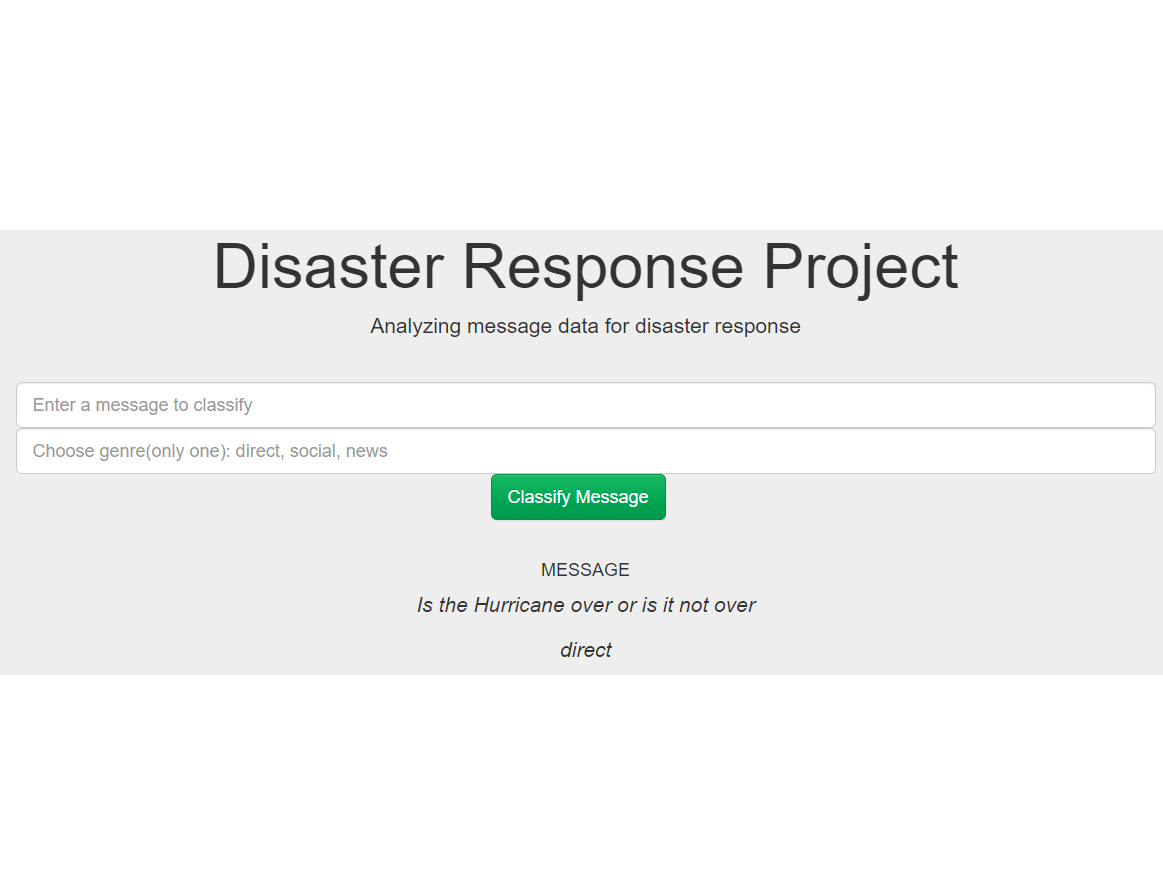
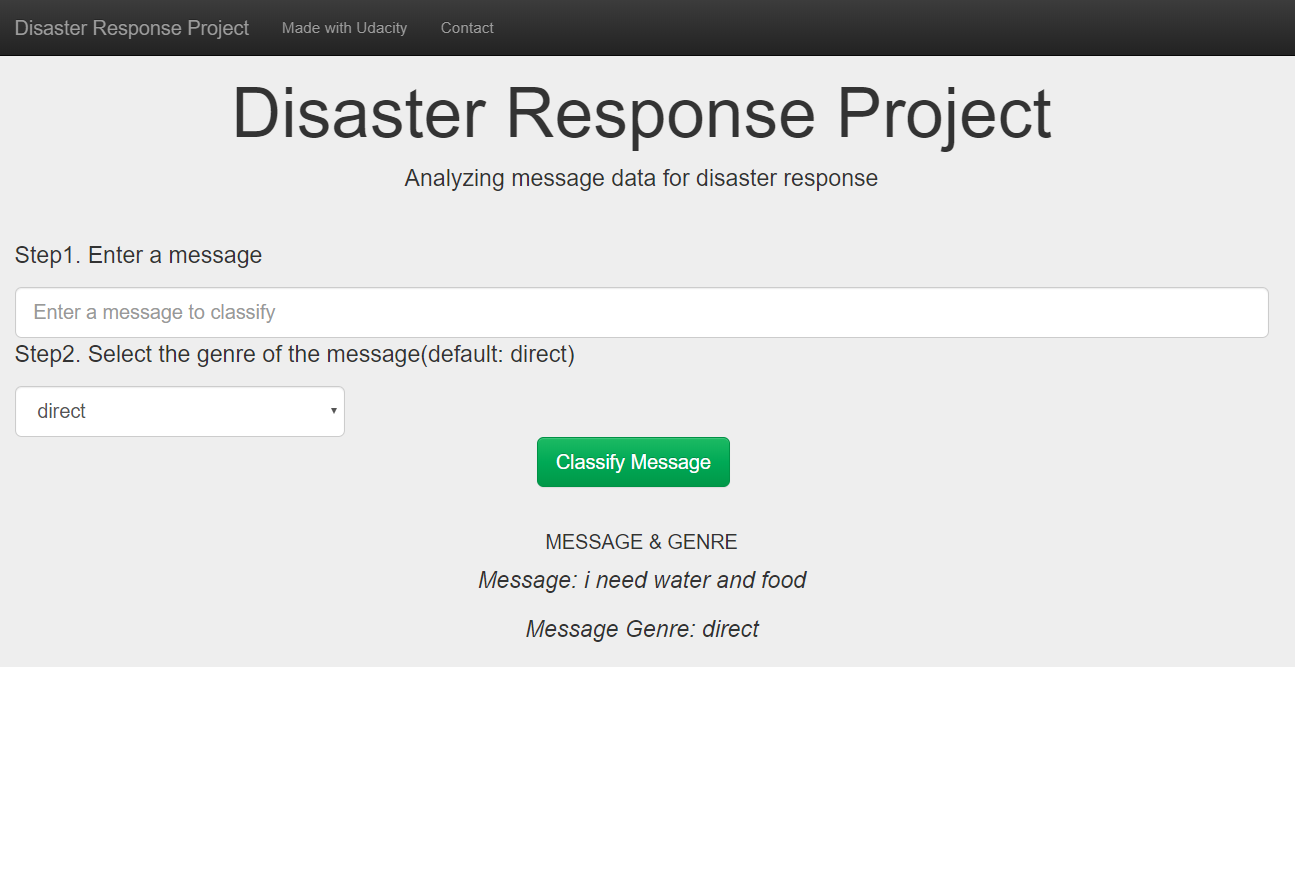
update the README.md and related files

diff --git a/app/templates/master.html b/app/templates/master.html
@@ -39,9 +39,17 @@
         <div class="row">
             <div class="col-lg-12 form-group-lg">
                 <form action="/go" method="get">
+                    <p>Step1. Enter a message</p>
                     <input type="text" class="form-control form-control-lg" name="query_message" placeholder="Enter a message to classify">
-                    <!--add the text field to input the 'genre'-->
-                    <input type="text" class="form-control form-control-lg" name="query_genre" placeholder="Choose genre(only one): direct, social, news">
+
+                    <!-- Input the information of 'genre' -->
+                    <p>Step2. Select the genre of the message(default: direct)</p>
+                    <select name="select_genre" style="width:300px;" class="form-control form-control-lg">
+                      <option value="direct" selected>direct</option>
+                      <option value="news">news</option>
+                      <option value="social">social</option>
+                    </select>
+
                     <div class="col-lg-offset-5">
                         <button type="submit" class="btn btn-lg btn-success">Classify Message</button>
                     </div>

diff --git a/app/templates/go.html b/app/templates/go.html
@@ -3,10 +3,10 @@
 
 {% block message %}
     <hr />
-    <h4 class="text-center">MESSAGE</h4>
-    <p class="text-center"><i>{{query_message}}</i></p>
-    <!--add the block for query of 'genre' -->
-    <p class="text-center"><i>{{query_genre}}</i></p>
+    <h4 class="text-center">MESSAGE & GENRE</h4>
+    <p class="text-center"><i>Message: {{query_message}}</i></p>
+    <!--Show the information of 'genre' -->
+    <p class="text-center"><i>Message Genre: {{query_genre}}</i></p>
 {% endblock %}
 
 {% block content %}

diff --git a/app/run.py b/app/run.py
@@ -121,7 +121,7 @@ def go():
     # save user input in query
     #get the query: one is 'message', another is 'genre'
     message = request.args.get('query_message', '')
-    genre = request.args.get('query_genre', '')
+    genre = request.args.get('select_genre', '')
     #make sure this is the right information of 'genre'
     genre_list = list(df['genre'].unique())
     assert (genre in genre_list), "Please enter just one of the three genres"

diff --git a/README.md b/README.md
@@ -1,56 +1,139 @@
-# Disaster Response Pipeline Project
+# DSND_Proj2_Disaster Response Pipeline
 
-### Dataset:
-- There are a lot of messages as the response to disasters.
-- These messages can be divided into three different genres(**'direct', 'news', 'social'**)
-- Each message was described to 36 different classes.
-- Class with value '1': represent that the message is classified in this class.
-
-### Data Wrangling:
-##### 1. `message`
-- **Tokenize** the text of the message into words
-- Use `nltk` to **normalize, lemmatize** the words, and also **delete the stopwords**
-
-##### 2. `categories`
-- Extract the categories information from the Dataset(DataFrame)
-- Find two special categories
-    - `related`: some values are '2', change them to '1'
-    - `child_alone`: there is just one unique value, useless to classfy the message, delete this categorie
+### Table of Contents
+1. [Project Overview](#ProjectOverview)
+    - [Dataset](#Dataset)
+2. [Project Components](#ProjectComponents)
+    2.1 ETL Pipeline
+    2.2 ML Pipeline
+    2.3 Flask Web App
+3. [File Description](#FileDescription)
+    - Requirements
+4. [Instructions](#Instructions)
+5. [Result](#Result)
+**Warning**
+**References**
 
 
-### Building Model
-##### Feature1: `message` (INPUT)
-Raw Data: already tokenized words of text
-- Use `CountVectorizer()` with tokenizer in Data Wrangling to make the words to vectors
-- Use `TfidfTransformer()` to normalize the value of the vectors
-
-##### Feature2: `genre` (INPUT)
-*!!!GUESS: maybe genre is related to the classification.*
-- Use `OneHotEncoder()`, change 'genre' objects to numbers  
-
-##### Labels: `categories` (OUTPUT)
-
-##### Model
-- Use `ColumnTransformer()`, transform the two features from different sources in one transformer called `'preprocessor'`
-- Use `Pipeline()`, build a model with transformer `'preprocessor'` and classifier `RandomForestClassifier()`
-    - **Notice**: since there are many classes, use `MultiOutputClassifier()`
 
 
-### Instructions:
+## 1. Project Overview <a name="ProjectOverview"></a>
+The goal of the project is to apply data engineering skills to analyze the [Disaster Response Messages](https://www.figure-eight.com/dataset/combined-disaster-response-data/) dataset provided by Figure Eight, and build a web application that can help emergency workers analyze incoming messages with the information of genres and sort them into specific categories to speed up aid and contribute to more efficient distribution of emergency personnels and other resources.
+
+- Dataset <a name="Dataset"></a>
+    - Messages are divided into three different genres(**'direct', 'news', 'social'**)
+    - Each message is described to 36 different classes.
+    - Class with value '1': represent that the message is classified in this class.
+
+
+
+## 2. Project Components <a name="ProjectComponents"></a>
+
+### 2.1 ETL Pipeline
+This is a data cleaning pipeline.
+- Load Messages and Categories csv datasets
+- Merge the two datasets
+- Wrangle the Data:
+    1. `message`
+        - **Tokenize** the text of the message into words
+        - Use `nltk` to **normalize, lemmatize** the words, and meantime **delete the stopwords**
+
+    2. `categories`
+        - Extract the categories information from the Dataset(loaded as DataFrame)
+        - Process two special categories  
+            - `related`: some values are '2', change them to '1'
+            - `child_alone`: there is just one unique value, useless to classfy the message, delete this categorie
+- Save the cleaned data into a SQLite database
+
+### 2.2 ML Pipeline
+This is a machine learning pipeline.
+- Load data from the SQLite database
+- Split the dataset into training and test sets
+- Build a model
+
+    - Feature1: `message` (INPUT)
+        - Use `CountVectorizer()` with tokenizer in Data Wrangling to make the words to vectors
+        - Use `TfidfTransformer()` to normalize the value of the vectors
+
+    - Feature2: `genre` (INPUT)
+    !!!**GUESS**: *maybe genre is related to the classification.*
+        - Use `OneHotEncoder()`, change 'genre' objects to numbers  
+
+    - Labels: `categories` (OUTPUT)
+
+    - **Machine Learning Pipelne**
+        - Use `ColumnTransformer()`, transform the two features from different sources in one transformer called `'preprocessor'`
+        - Use `Pipeline()`, build a model with transformer `'preprocessor'` and classifier `RandomForestClassifier()`
+        - **Notice**: since there are many classes, use `MultiOutputClassifier()`
+- Train the model using GridSearchCV
+- Get the results report of the model on the test set
+- Exports the final model as a pickle file
+
+### 2.3 Flask Web App
+Build a Web application by using Flask framework.
+
+
+
+## 3 Files <a name="FileDescription"></a>
+<pre>
+D:.
+│  .gitignore
+│  LICENSE
+│  README.md
+│  requirements.txt
+│  
+├─app
+│  │  run.py  //Flask file to run the web application
+│  │  
+│  └─templates  //contains html file for the web application
+│          go.html
+│          master.html
+│          
+├─data
+│      DisasterResponse.db  // output of the ETL pipeline
+│      disaster_categories.csv  // datafile of all the categories
+│      disaster_messages.csv  // datafile of all the messages
+│      process_data.py  //ETL pipeline scripts
+│      
+├─images
+│      classification_accuracy.png
+│      Overview.png
+│      response1.png
+│      response_classification.png
+│      
+└─models
+        train_classifier.py  //machine learning pipeline scripts to train and export a classifier
+</pre>
+
+- **Requirements**
+All of the requirements are captured in requirements.txt.
+```python
+pip install -r requirements.txt
+```
+
+
+
+## 4. Instructions <a name="Instructions"></a>
 1. Run the following commands in the project's root directory to set up your database and model.
 
     - To run ETL pipeline that cleans data and stores in database
-        `python data/process_data.py data/disaster_messages.csv data/disaster_categories.csv data/DisasterResponse.db`
+        ```python
+        python data/process_data.py data/disaster_messages.csv data/disaster_categories.csv data/DisasterResponse.db`
+        ```
     - To run ML pipeline that trains classifier and saves
-        `python models/train_classifier.py data/DisasterResponse.db models/classifier.pkl df_overview.csv df_accuracy.csv`
+        ```python
+        python models/train_classifier.py data/DisasterResponse.db models/classifier.pkl df_overview.csv df_accuracy.csv`
+        ```
 
 2. Run the following command in the app's directory to run your web app.
-    `python run.py`
+    ```python
+    run.py
+    ```
 
 3. Go to http://localhost:3001
 
-### Result:
-1. Model:
+## 5. Result: <a name="Result"></a>
+1. Model accuracy of different classes:
 ![predict accuracy](./images/classification_accuracy.png)
 2. Web APP:
 ![Overview](./images/Overview.png)
@@ -58,10 +141,13 @@ Raw Data: already tokenized words of text
 ![response_classification](./images/response_classification.png)
 
 
-# Warning:
+# Warning
 1. Develop enev  
-The basic frame use old python modules, e.g. `joblib`  
+Latest python module of `joblib`  
 update:
 ```py
-import joblib #instead: from sklearn.externals import joblib
+import joblib #old version: from sklearn.externals import joblib
 ```
+
+# References
+1. https://github.com/binliu-base/dsnd-term2-p1-disaster-response
